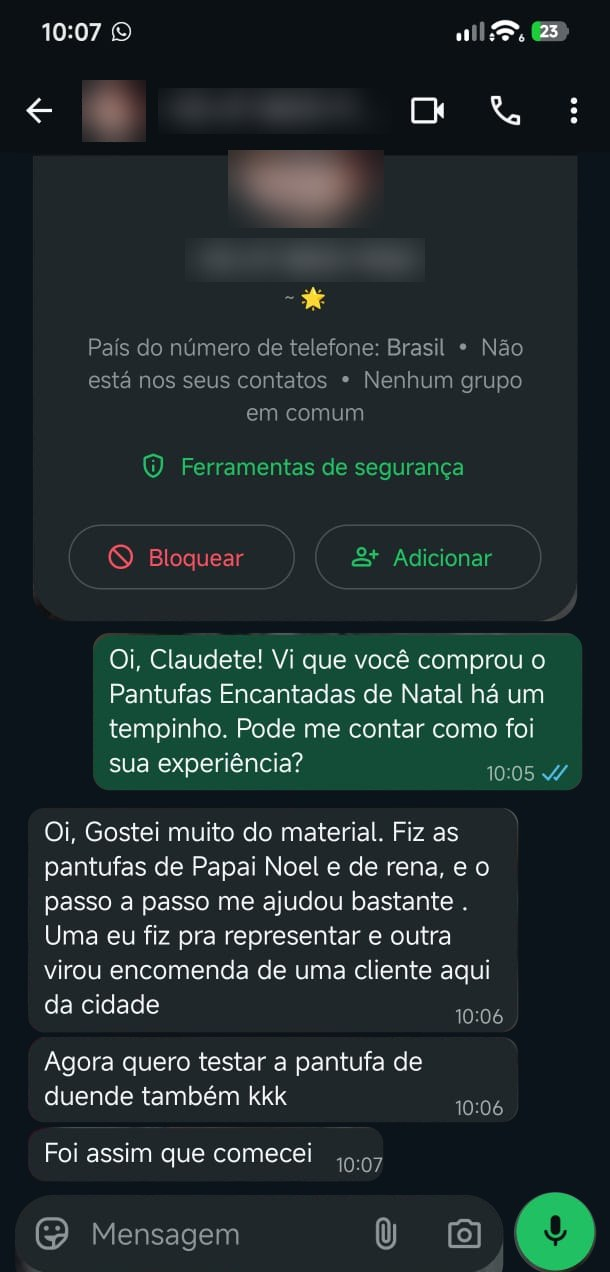
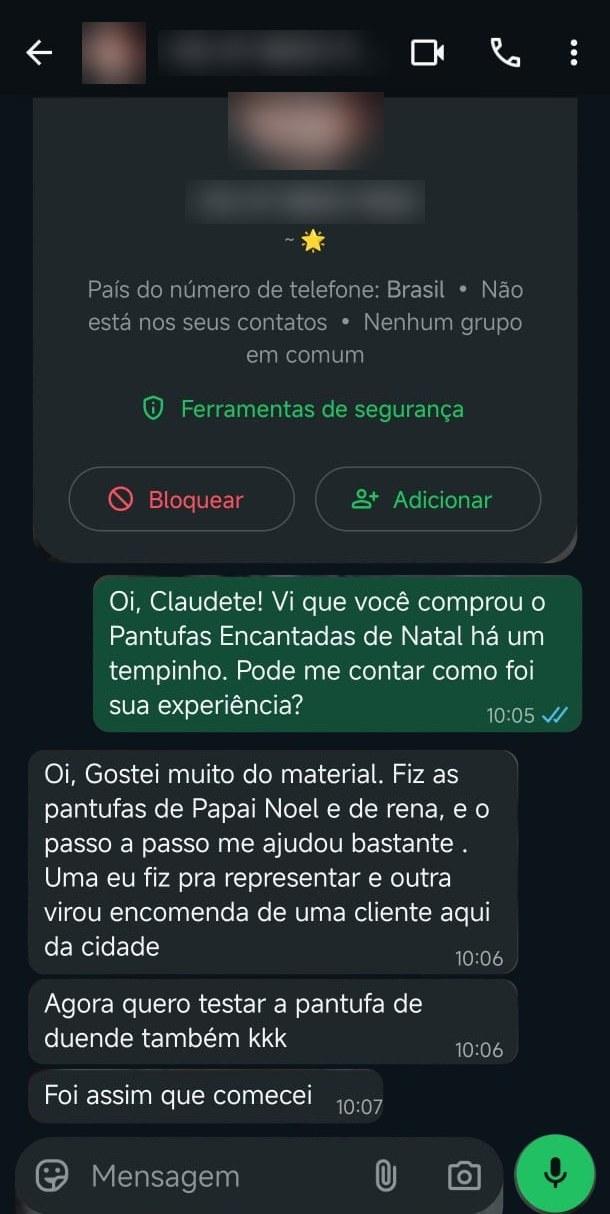
Adiciona print da Priscila e remove barra de status dos prints
Claude-Session: https://claude.ai/code/session_01CDz42ykYV1PrAbDiS3UToq

diff --git a/index.html b/index.html
@@ -141,6 +141,8 @@ details p{text-align:center;padding:0 24px 16px}
 .dpt{display:flex;flex-wrap:wrap;justify-content:center;gap:6px;margin-bottom:10px}.dpt span{font-size:.62rem;font-weight:800;letter-spacing:.1em;color:var(--r);border:1px solid rgba(181,18,27,.4);border-radius:99px;padding:3px 10px}
 .dpx{max-width:620px;margin:22px auto 0;font-size:.74rem;opacity:.75}
 @media(min-width:760px){.dpl{grid-template-columns:repeat(2,1fr);gap:18px}}
+.wps{display:grid;gap:22px;max-width:620px;margin:0 auto}.wps .wpp{margin:18px auto 0}
+@media(min-width:620px){.wps{grid-template-columns:1fr 1fr;align-items:start}}
 .wpp{max-width:290px;margin:28px auto 8px}.wpp img{width:100%;height:auto;border-radius:26px;border:5px solid #101417;box-shadow:0 0 0 2px var(--gold),0 22px 44px rgba(0,0,0,.55)}.wpp figcaption{font-size:.72rem;opacity:.8;margin-top:12px}
 .wpl{font-size:.7rem;font-weight:800;letter-spacing:.16em;color:var(--gold);margin-top:26px}
 @media(min-width:760px){#bonus .bn{flex:0 0 calc(50% - 10px)}}
@@ -190,8 +192,11 @@ details p{text-align:center;padding:0 24px 16px}
 <section class="dep" id="depoimentos"><div class="w rv"><span class="eyebrow">💬 QUEM JÁ FEZ</span>
 <h2>O que as clientes da <span class="gold">primeira turma</span> contaram</h2>
 <p class="sub">Relatos de clientes que compraram o material quando ele ainda era vendido pelo WhatsApp.</p>
-<p class="wpl">CONVERSA REAL NO WHATSAPP</p>
-<figure class="wpp"><img src="img/print_claudete.jpg" alt="Print de conversa real no WhatsApp com a cliente Claudete contando que fez as pantufas de Papai Noel e de rena e que uma virou encomenda" loading="lazy" width="610" height="1272"><figcaption>Claudete, cliente da primeira turma • número e foto ocultados por privacidade</figcaption></figure>
+<p class="wpl">CONVERSAS REAIS NO WHATSAPP</p>
+<div class="wps">
+<figure class="wpp"><img src="img/print_claudete.jpg" alt="Print de conversa real no WhatsApp com a cliente Claudete contando que fez as pantufas de Papai Noel e de rena e que uma virou encomenda" loading="lazy" width="610" height="1214"><figcaption>Claudete, cliente da primeira turma • número e foto ocultados por privacidade</figcaption></figure>
+<figure class="wpp"><img src="img/print_priscila.jpg" alt="Print de conversa real no WhatsApp com a cliente Priscila dizendo que amou o material e que o PDF é bem explicado" loading="lazy" width="610" height="1220"><figcaption>Priscila, cliente • sobrenome ocultado por privacidade</figcaption></figure>
+</div>
 <p class="wpl">OUTROS RELATOS</p>
 <div class="dpl">
 <div class="dp"><div class="dpt"><span>ÁRVORE DE NATAL</span><span>LAÇO NATALINO</span></div><q>Gostei muito mesmo! Fiz a pantufa árvore de Natal e a pantufa com laço natalino. <b>O passo a passo é fácil de acompanhar</b> e as peças ficaram lindas. Já recebi elogios e <b>consegui minhas primeiras encomendas</b>. Agora quero fazer a de rena também 😍</q><div class="dpn"><span class="dpi" aria-hidden="true">J</span><div><strong>Jéssica S.</strong><small>Cliente da primeira turma</small></div></div></div>
